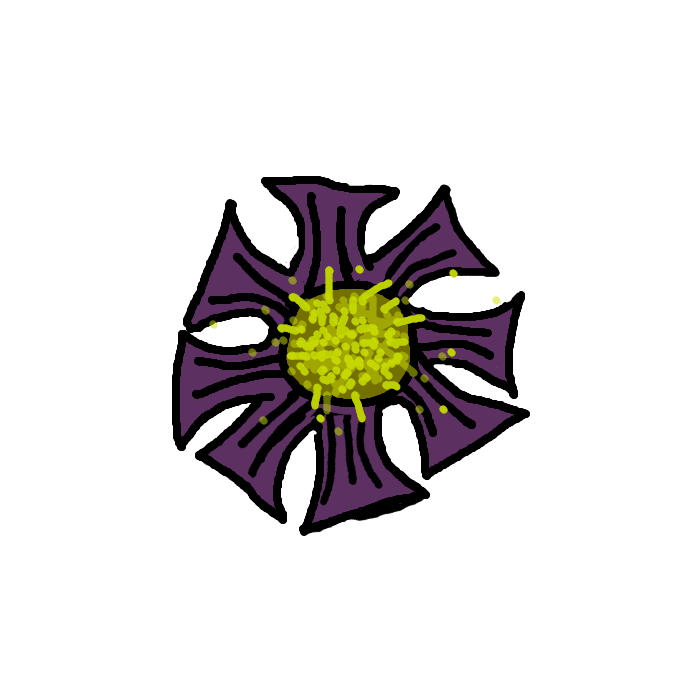
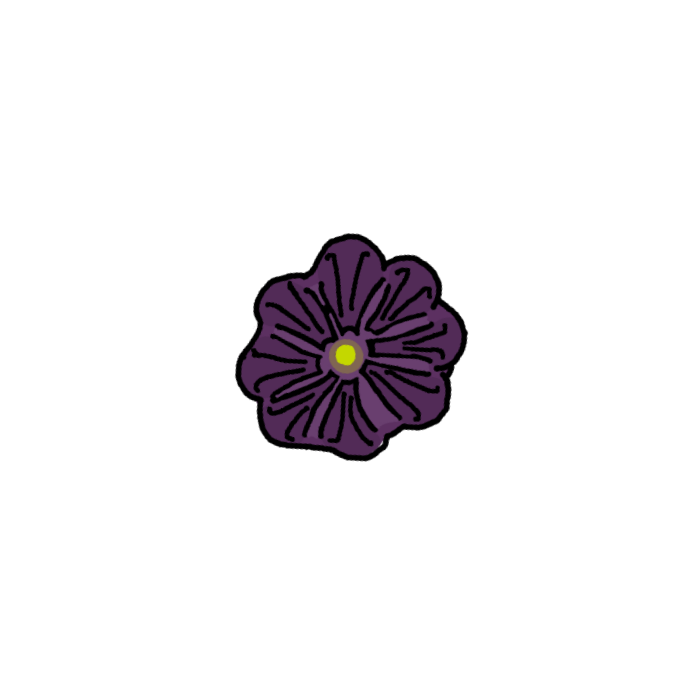
flower implemented

Changed region(s): [[0.24, 0.24, 0.75, 0.78]]

diff --git a/lib/monsters/flower.py b/lib/monsters/flower.py
@@ -7,16 +7,19 @@ from threading import Thread
 #Current Module
 from . import DefaultMonster
 from . import set_hitbox_monster
+from . import FlowerBush
 
 
-class Brambles(DefaultMonster):
-    lives = 40
-    name = "brambles"
+class Flower(DefaultMonster):
+    lives = 10
+    name = "flower"
 #    id_nb = 9
     degeneration = 200
-    lifetime = 330
+    lifetime = 130
     rooted = True
     forest = True
+    hunt = False
+    attack = 0
 
     @classmethod
     def build_class(cls, env):
@@ -24,34 +27,21 @@ class Brambles(DefaultMonster):
         cls.img = cls.tools.set_imgs(cls.env.img_folder + 'monsters/', cls.name, cls.dimensions)
         cls.img_injured = cls.tools.set_imgs(cls.env.img_folder + 'monsters/', cls.name + '_injured', cls.dimensions)
         cls.img_dead = cls.tools.set_imgs(cls.env.img_folder + 'monsters/', cls.name + '_dead', cls.dimensions)
+        cls.img_bloom = cls.tools.set_imgs(cls.env.img_folder + 'monsters/', cls.name + '_bloom', cls.dimensions)
+
+        cls.bush = FlowerBush.build_class(env, cls.img_dead)
+
+        #built in carnivorous.py
+        cls.gas = cls.env.mod.bullets.PoisonedGas
+        cls.large_gas = cls.env.mod.bullets.PoisonedGasLarge
         return cls
 
-    def __init__(self, monster, number, direction=None):
-        self.monster = monster
-        self.x = monster.x
-        self.y = monster.y
-        self.number = number
+    def __init__(self, target):
+        self.x = target.x
+        self.y = target.y
+        self.direction = target.direction
         self.hitbox = set_hitbox_monster(self.env, self)
-        self.spawn_next = 4
-
-        if direction is None:
-            self.direction = monster.direction
-            self.rapidity = int(self.hitbox.dimensions * 0.9)
-            self._action()
-        else:
-            self.target = None
-            self.direction = direction
-            self.rapidity = int(self.monster.hitbox.dimensions * 1.2)
-            self.tools.move(self, self.direction, self.rapidity)
-            self.hitbox.update_coords(self)
-            self._target_hitted()
-
-
-    def _debug(self):
-        if self.env.debug and self.lives:
-            if self.target is not None and self.spawn_next:
-                pygame.draw.line(self.env.GameWindow, (255, 0, 0), (self.target.x + self.target.half, self.target.y + self.target.half), (self.x + self.half, self.y + self.half))
-            self.tools.display(self.env, self.hitbox.img, self.hitbox.x, self.hitbox.y)
+        self.bloom = 0
 
     def hitted(self, attack=1):
         if self.invulnerable:
@@ -62,17 +52,12 @@ class Brambles(DefaultMonster):
             self.lives = 0 if self.lives < 0 else self.lives
         return None, None
 
-    def affected(self, bullet):
-        if not self.lives:
-            return False
-        if self.hitbox.x <= (bullet.hitbox.x + bullet.hitbox.dimensions) and bullet.hitbox.x <= (self.hitbox.x + self.hitbox.dimensions) and self.hitbox.y <= (bullet.hitbox.y + bullet.hitbox.dimensions) and bullet.hitbox.y <= (self.hitbox.y + self.hitbox.dimensions):
-            return True
-        return False
-
     def display(self, env):
         fitting = 0.23 * self.dimensions if self.direction % 2 else 0
         if not self.lives:
             img = self.img_dead[self.direction]
+        elif self.bloom:
+            img = self.img_bloom[self.direction]
         elif self.injured:
             img = self.img_injured[self.direction]
         else:
@@ -88,7 +73,6 @@ class Brambles(DefaultMonster):
     def move(self):
         self.tick = self.env.mod.tools.Tick()
         while self.lives:
-            self._target_hitted()
             if self._quit():
                 return
 
@@ -96,17 +80,37 @@ class Brambles(DefaultMonster):
             if self._quit():
                 return
 
+    def spawn_gas(self):
+        if not randint(0, 4):
+            gas = self.large_gas(self.x, self.y, randint(0, 7), self)
+        else:
+            gas = self.gas(self.x, self.y, randint(0, 7), self)
+        t = Thread(target=gas.move, args=())
+        t.daemon = True
+        self.env.bullets.append(gas)
+        t.start()
+
+    def spawn_bush(self):
+        bush = self.bush(self)
+        t = Thread(target=bush.move, args=())
+        t.daemon = True
+        self.env.monsters.append(bush)
+        t.start()
+        self.lives = 0
+        self.degeneration = 0
+
     def update(self):
         super().update()
         if self.lifetime:
             self.lifetime -= 1
             if not self.lifetime:
+                if randint(0, 2):
+                    self.bloom = 10
+                else:
+                    self.spawn_bush()
+        if self.bloom:
+            self.bloom -= 1
+            if ((self.bloom + 1) % 2):
+                self.spawn_gas()
+            if not self.bloom:
                 self.lives = 0
-        if self.spawn_next:
-            self.spawn_next -= 1
-            if not self.spawn_next and self.number:
-                wall = Brambles(self, self.number - 1)
-                t = Thread(target=wall.move, args=())
-                t.daemon = True
-                self.env.monsters.append(wall)
-                t.start()

diff --git a/lib/monsters/flower_bush.py b/lib/monsters/flower_bush.py
@@ -8,50 +8,33 @@ from threading import Thread
 from . import DefaultMonster
 from . import set_hitbox_monster
 
+# croissance ?
 
-class Brambles(DefaultMonster):
-    lives = 40
-    name = "brambles"
+class FlowerBush(DefaultMonster):
+    lives = 10
+    name = "flower_bush"
 #    id_nb = 9
     degeneration = 200
-    lifetime = 330
+    lifetime = 75
     rooted = True
     forest = True
+    hunt = False
+    attack = 2
+    poison = 50
 
     @classmethod
-    def build_class(cls, env):
+    def build_class(cls, env, img_dead):
         cls.env = env
         cls.img = cls.tools.set_imgs(cls.env.img_folder + 'monsters/', cls.name, cls.dimensions)
         cls.img_injured = cls.tools.set_imgs(cls.env.img_folder + 'monsters/', cls.name + '_injured', cls.dimensions)
-        cls.img_dead = cls.tools.set_imgs(cls.env.img_folder + 'monsters/', cls.name + '_dead', cls.dimensions)
+        cls.img_dead = img_dead
         return cls
 
-    def __init__(self, monster, number, direction=None):
-        self.monster = monster
-        self.x = monster.x
-        self.y = monster.y
-        self.number = number
-        self.hitbox = set_hitbox_monster(self.env, self)
-        self.spawn_next = 4
-
-        if direction is None:
-            self.direction = monster.direction
-            self.rapidity = int(self.hitbox.dimensions * 0.9)
-            self._action()
-        else:
-            self.target = None
-            self.direction = direction
-            self.rapidity = int(self.monster.hitbox.dimensions * 1.2)
-            self.tools.move(self, self.direction, self.rapidity)
-            self.hitbox.update_coords(self)
-            self._target_hitted()
-
-
-    def _debug(self):
-        if self.env.debug and self.lives:
-            if self.target is not None and self.spawn_next:
-                pygame.draw.line(self.env.GameWindow, (255, 0, 0), (self.target.x + self.target.half, self.target.y + self.target.half), (self.x + self.half, self.y + self.half))
-            self.tools.display(self.env, self.hitbox.img, self.hitbox.x, self.hitbox.y)
+    def __init__(self, flower):
+        self.x = flower.x
+        self.y = flower.y
+        self.direction = flower.direction
+        self.hitbox = set_hitbox_monster(self.env, self, 0.48)
 
     def hitted(self, attack=1):
         if self.invulnerable:
@@ -61,13 +44,6 @@ class Brambles(DefaultMonster):
             self.lives -= attack
             self.lives = 0 if self.lives < 0 else self.lives
         return None, None
-
-    def affected(self, bullet):
-        if not self.lives:
-            return False
-        if self.hitbox.x <= (bullet.hitbox.x + bullet.hitbox.dimensions) and bullet.hitbox.x <= (self.hitbox.x + self.hitbox.dimensions) and self.hitbox.y <= (bullet.hitbox.y + bullet.hitbox.dimensions) and bullet.hitbox.y <= (self.hitbox.y + self.hitbox.dimensions):
-            return True
-        return False
 
     def display(self, env):
         fitting = 0.23 * self.dimensions if self.direction % 2 else 0
@@ -84,6 +60,22 @@ class Brambles(DefaultMonster):
             self.tools.display(self.env, self.img_inflamed[self.direction], self.x, self.y, fitting)
         self._debug()
 
+
+    def _target_hitted(self):
+        for player in self.env.players:
+            if player.affected(self):
+                player.hitted(attack=self.attack)
+                if self.lives:
+                    player.poisoned = self.poison
+                if self.inflamed and not randint(0, 3):
+                    player.inflamed = 1
+        if self.inflamed:
+            for monster in self.env.monsters:
+                if monster == self:
+                    continue
+                elif monster.affected(self) and not monster.inflamed:
+                    if not randint(0, 3):
+                        monster.set_on_fire(1, self.master_of_flames)
 
     def move(self):
         self.tick = self.env.mod.tools.Tick()
@@ -102,11 +94,10 @@ class Brambles(DefaultMonster):
             self.lifetime -= 1
             if not self.lifetime:
                 self.lives = 0
-        if self.spawn_next:
-            self.spawn_next -= 1
-            if not self.spawn_next and self.number:
+                """
                 wall = Brambles(self, self.number - 1)
                 t = Thread(target=wall.move, args=())
                 t.daemon = True
                 self.env.monsters.append(wall)
                 t.start()
+                """

diff --git a/lib/monsters/witch.py b/lib/monsters/witch.py
@@ -3,6 +3,9 @@ from random import randint
 
 from . import DefaultMonster
 from . import set_hitbox_monster
+from . import Flower
+
+#2 montures ? semi-invisible ?
 
 class   Witch(DefaultMonster):
     name = "witch"
@@ -17,19 +20,20 @@ class   Witch(DefaultMonster):
         cls.img_dead = cls.tools.set_imgs(cls.env.img_folder + 'monsters/', cls.name + '_dead', cls.dimensions)
         cls.img_possessed = cls.tools.set_imgs(cls.env.img_folder + 'monsters/', cls.name + '_possessed', cls.dimensions)
         #cls.spore  = cls.env.mod.bullets.Spore.build_class(cls.env)
+        cls.flower  = Flower.build_class(cls.env)
         return cls
 
     def _next_spell(self):
         self.will_spell = randint(220, 460)
 
-"""
-    def throw_spore(self):
-        spore = self.spore(self.x, self.y, self.direction)
-        t = Thread(target=spore.move, args=())
+    def spawn_flower(self):
+        if self.target is None:
+            return
+        flower = self.flower(self.target)
+        t = Thread(target=flower.move, args=())
         t.daemon = True
-        self.env.bullets.append(spore)
+        self.env.monsters.append(flower)
         t.start()
-"""
 
     def frogifying(self):
         if len(self.env.zombies):
@@ -44,7 +48,8 @@ class   Witch(DefaultMonster):
 
         self.spelling = 0
         self._next_spell()
-        self.spell_type = [self.frogifying]
+        #self.spell_type = [self.frogifying, self.spawn_flower]
+        self.spell_type = [self.spawn_flower]
         self.walking_dead = False
 
     def display(self, env):

diff --git a/lib/monsters/__init__.py b/lib/monsters/__init__.py
@@ -27,6 +27,8 @@ from .garou import Garou
 from .villager import Villager
 from .alchemist import Alchemist
 from .fly import Fly
+from .flower_bush import FlowerBush
+from .flower import Flower
 from .witch import Witch
 from .vermine import Vermine
 from .mother_of_the_vermine import MotherOfTheVermine

diff --git a/lib/monsters/carnivorous.py b/lib/monsters/carnivorous.py
@@ -15,6 +15,7 @@ class   Carnivorous(DefaultMonster):
     attack = 2
     degeneration = 400
     rapidity = 0
+    forest = True
 
     @classmethod
     def build_class(cls):
